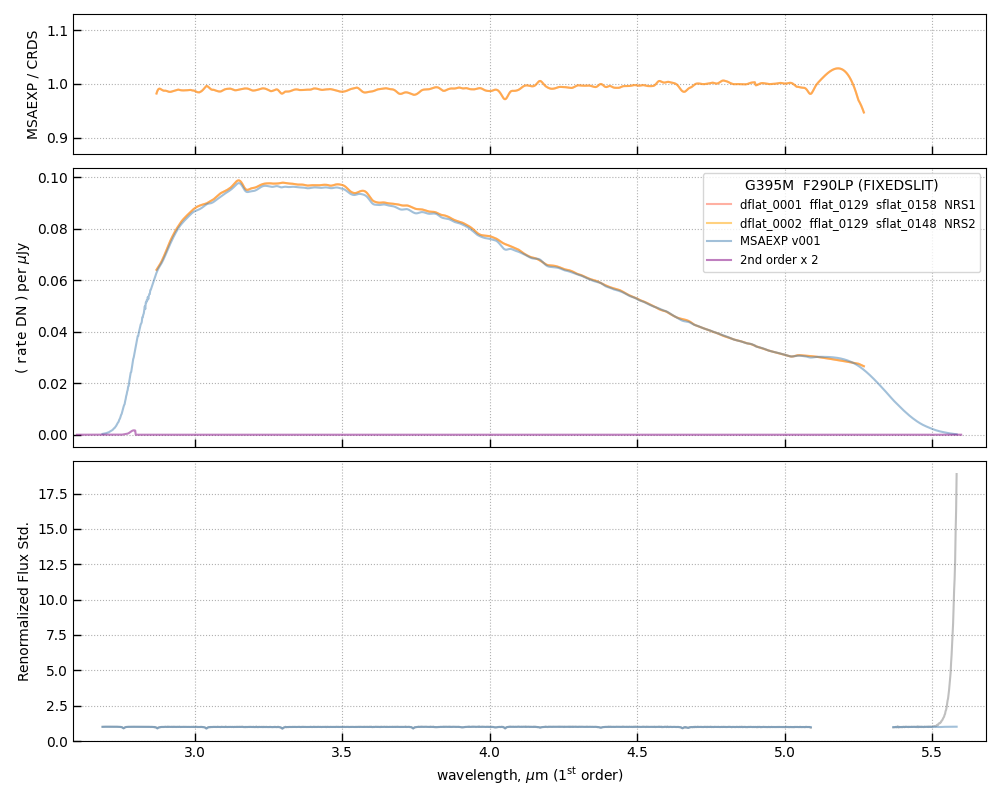
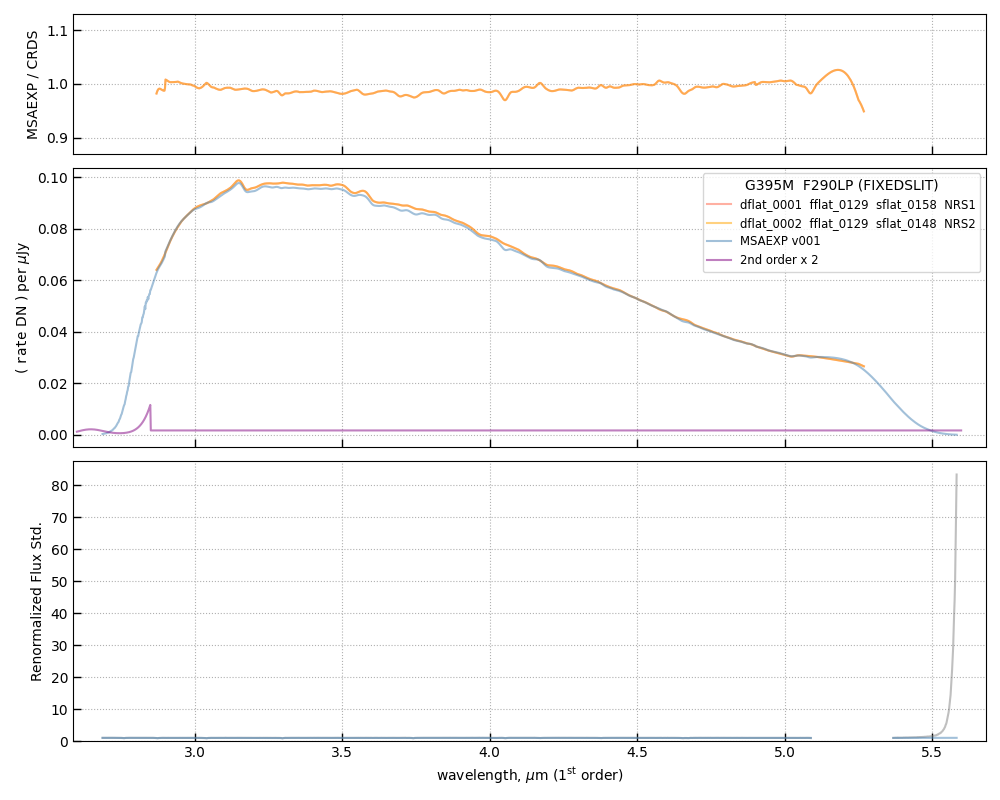
fix bug in path_loss

diff --git a/msaexp/slit_combine.py b/msaexp/slit_combine.py
@@ -120,7 +120,7 @@ def split_visit_groups(
     groups = {}
     for k in np.unique(keys):
         test_field = (un[k].sum() % 6 == 0) & ("jw02561" in files[0])
-        test_field |= (un[k].sum() % 4 == 0) & ("xxjw01810" in files[0])
+        test_field |= (un[k].sum() % 4 == 0) & ("jw01810" in files[0])
         test_field |= (un[k].sum() % 4 == 0) & ("jw01324" in files[0])
         test_field |= (un[k].sum() % 6 == 0) & ("jw01324" in files[0])
         test_field &= split_uncover > 0

diff --git a/msaexp/utils.py b/msaexp/utils.py
@@ -3405,7 +3405,7 @@ class LookupTablePSF:
 
             NS = len(self.psf_sigma)
             Nx = len(self.psf_xoffset)
-            centered_point = self.psf_slit_loss_frac[:, 0, 0]
+            centered_point = self.psf_slit_loss[:, 0, 0] * 1.0
             for i in range(NS):
                 for j in range(Nx):
                     self.psf_slit_loss_frac[:, i, j] /= centered_point
